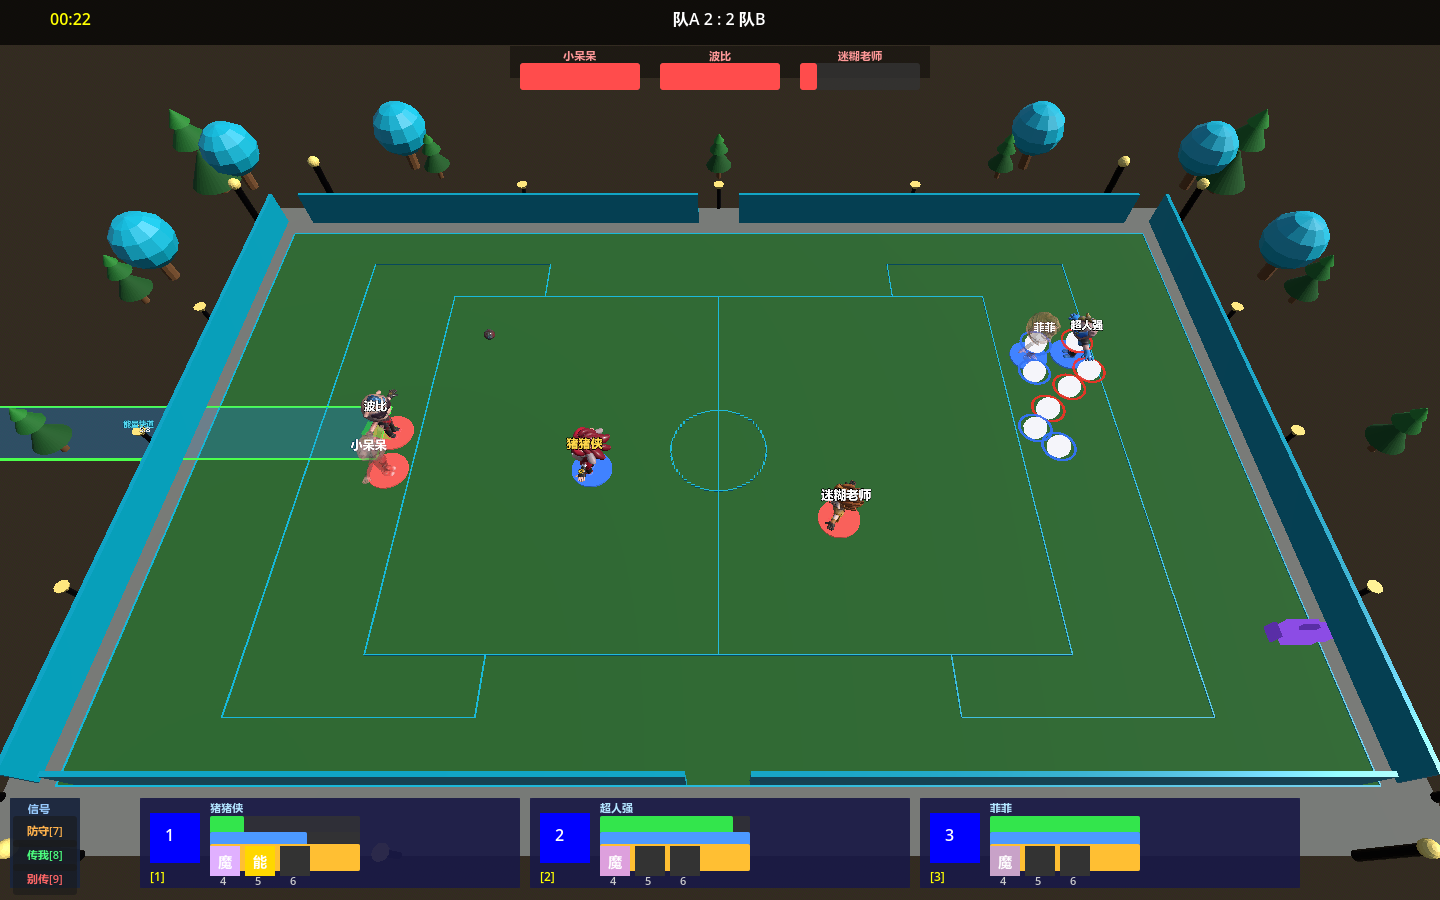
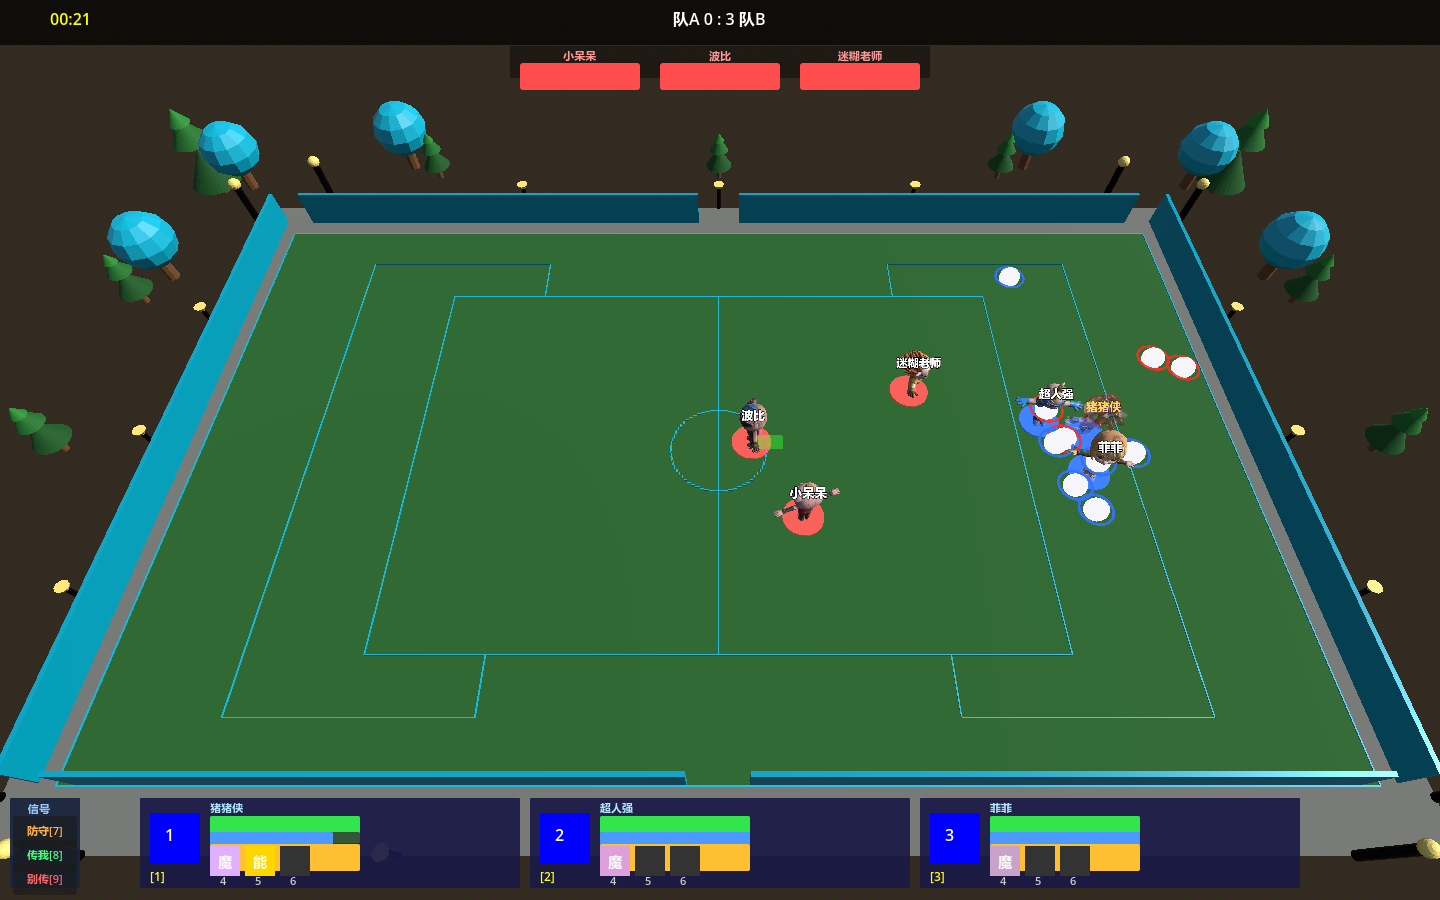
fix: 平台窗口/生成位置修正+白球AI平替+28号工单（主人三反馈）——修1白球生成位己方内场→敌方外场带(field_route+loader双处,16号口径x≈±560,实拍381~418敌纵深)+修2白球AI平替(19A未建的最小可行:攻球游向敌半场碰炸/守球游向己方球员给道具,实拍白球群游至敌半场)+28号防御决策平替工单(BALL_THREAT_INCOMING事件+防御技即时评估22-B同款+平替规则威胁瞬间防御技1.5权重顶替躲避降级兜底,J1/J2依赖已交付,待批派工)；金帧shot_09

diff --git a/元灵技能AI规划/28_防御决策平替工单.md b/元灵技能AI规划/28_防御决策平替工单.md
@@ -1,0 +1,42 @@
+# 28 · 防御决策平替工单 —— AI 受球威胁时优先用防御技，替代原始躲避（主人令 2026-10-01）
+
+> 来源：主人实测反馈"有了对应防御技能，AI 的行为还是不变，没有倾向用防御技能去挡球，还是原始跳跃或躲避——想想这一块的决策平替怎么扩展，出工单"。
+> 前置依赖：工单27 J1（受击前置拦截）/J2（element 字段）已交付 ✅；机制同源=22-B 事件钩子（事件驱动替代轮询，已落地先例）。
+> 归属建议：事件件=集成窗口（ball/事件总线单写者）；消费评估=集成窗口（决策层）；数据件=技能数据窗口。**出单待主人批后派工。**
+
+---
+
+## 一、问题定义（实测现象）
+
+- 防御技（快牙撕咬/魔术白球-守/盾类）在 AI 手里**只有"进攻窗口"时机**（enemy_visible 系 gate），没有**"敌球来袭"瞬间的防御评估**；
+- AI 的防御反应仍是**原始层**：M5 跳跃反应 + 走位躲避——防御技躺在池子里轮不上；
+- 根因：防御技的时机模型缺"受球威胁"这一触发面（撕裂点=敌球朝我飞来的瞬间，轮询 0.5s 节奏赶不上球速）。
+
+## 二、平替扩展设计（三件，事件先行）
+
+### 1. 受球威胁事件（事件类型先行，副系统规范）
+`BALL_THREAT_INCOMING`（event_bus 新枚举）：{ball, target_player, eta(到达估时), element}
+- 触发点：ball 飞行更新中判定"朝某球员飞来且距离<X、eta<0.8s"（M5 弹道预测既有口）
+- 纪律：与 22-B 投球前钩子同款旁路实现+开关隔离（`defense_priority` 键，默认关=零行为）
+
+### 2. 防御技即时评估通道（决策平替核心）
+- 事件到达 → 持有防御技的受威胁球员**立即跑一次防御技评估**（跳过轮询节奏；22-B 同款 cadence 旁路）；
+- 防御技识别：tag 语义分类（summon_spawn+intercept / shield / heal_block 类守技）——描述符 `intent="defense"` 的技能入防御池；
+- 威胁瞬间防御技评分 ×`defense_priority_weight`（建议 1.5 起步，profile 化）——**防御技效用 > 原始躲避效用时自动顶替**。
+
+### 3. 原始行为的降级兜底（平替语义）
+- 威胁瞬间决策顺序：**防御技可用（能量/CD/gate 过）→ 放防御技**；不可用 → 保持既有跳跃/躲避（原始行为降级为兜底，不删除）；
+- 即"平替"=防御技成为受威胁时的**首选动作**，原始躲避从"唯一选项"变为"备胎"。
+
+## 三、验收
+
+| 项 | 标准 |
+|---|---|
+| 开关关 | 全关 sim 3种子逐位一致（零行为） |
+| 开关开 | 敌球来袭瞬间：持防御技者出手率↑（探针 DEFEND_INTERCEPT/召唤生成事件对照） |
+| 语义 | 撕咬对雷火球瓦解（J2 element 链）、锅拦截免负面（J1 链）——事件驱动触发而非轮询漏拍 |
+| 门禁 | sim 危险=0 + 套件回归 |
+
+## 四、步骤
+
+S1 事件枚举+触发点（ball 弹道判定，集成）→ S2 防御池分类+即时评估通道（manager/决策层，集成）→ S3 平替决策规则+权重 profile 化 → S4 门禁+矩阵复测（平台窗口）。

diff --git a/工作日志/2026-10-01.md b/工作日志/2026-10-01.md
@@ -175,3 +175,10 @@
 - **修C 开局无白球**：原作白球体系（开局首生成+5s/个自动）错绑在魔术无上限技上 → 装载职责内初始化（持 fenny_2/fenny_3 者注册自动生成器+开局首生成）——实拍白球群（红环攻/蓝环守）+SUMMON_SPAWNED 44 次/场（自动生成器全程出货）
 - **纪律注记**：修A/修B 叠加于操控UI窗口未提交 WIP 之上（同文件不同区域，commit 含其 WIP 内容=共享树常态，已注明）；叠加方向经逐行核对无冲突
 - **验收截图**：docs/img/23demo/ 11 张（shot_10=三目标同框金帧）
+
+## 追加七：生成位置修正+白球AI平替+28号工单（主人三反馈闭环）
+
+- **修1 白球生成位**：己方内场→敌方外场带（16号铁事实口径：a攻+x敌外场x≈560/b镜像-560，确定性纵向散布；field_route生成口+loadout开局首生成双处同改）——实拍pos=(381~418,±)敌方半场纵深 ✅
+- **修2 白球AI平替**（主人问"是没有做操控AI评估体系吗"=确认，19A操控体系未建）：最小可行平替=白球自主行为（攻球游向敌半场碰敌爆炸/守球游向己方球员给道具；鲨鱼同款已有）——实拍白球群游至敌半场（shot_09）✅
+- **修3→28号工单**：防御决策平替（主人令出工单）——BALL_THREAT_INCOMING事件（M5弹道同源）+防御技即时评估通道（22-B同款cadence旁路）+平替规则（威胁瞬间防御技×1.5权重＞原始躲避则顶替，躲避降级兜底）；撕咬/锅链依赖27号J1/J2已交付✅；待主人批后派工（事件=集成/消费=集成/门禁=平台）
+- **截图**：docs/img/23demo 新12张（shot_09=金帧：快道长条朝向正确+白球群在敌半场）
